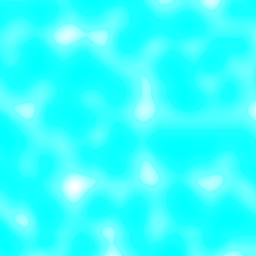
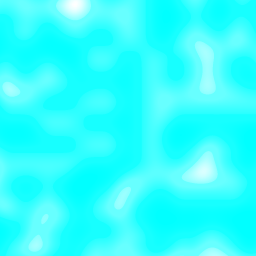
Water Displacement Effect
Got a very basic vertex shader to displace the water globule's to give a more fluid appearance. Still need to get the effect to look like water but this is a good start

Still some issues with the globules hitting the wall

diff --git a/Assets/Scripts/Water/WaterGlobule.cs b/Assets/Scripts/Water/WaterGlobule.cs
@@ -11,9 +11,11 @@ public class WaterGlobule : MonoBehaviour
     private Rigidbody _rigidBody;
     public Shader _drawShader;
     private RenderTexture _targetRender;
-    private Material _wallMaterial, _drawMaterial;
+    private Material _wallMaterial, _drawMaterial, _waterMaterial;
+    
 
     [SerializeField] private LayerMask _mask;
+    private Vector3 _globuleOffset;
 
     private void OnDrawGizmos()
     {
@@ -26,7 +28,8 @@ public class WaterGlobule : MonoBehaviour
         _rigidBody = GetComponent<Rigidbody>();
         _drawMaterial = new Material(_drawShader);
         _drawMaterial.SetVector("_Colour", Color.red);
-
+        _waterMaterial = GetComponent<Renderer>().material;
+        _globuleOffset = new Vector3(Random.Range(-500, 500), Random.Range(-500, 500), Random.Range(-500, 500));
     }
 
     private void OnTriggerEnter(Collider other)
@@ -68,6 +71,12 @@ public class WaterGlobule : MonoBehaviour
 
         }
 
+    }
+
+
+    private void FixedUpdate()
+    {
+        _waterMaterial.SetVector("Vector3_B9E3988F", transform.position + _globuleOffset);
     }
 
 
